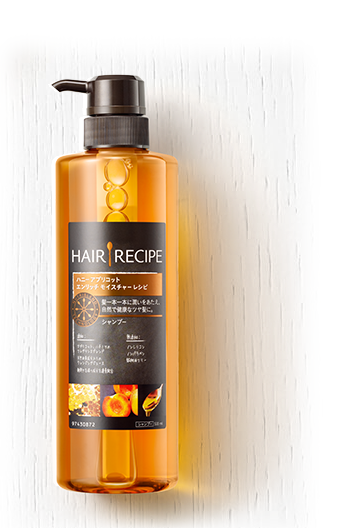
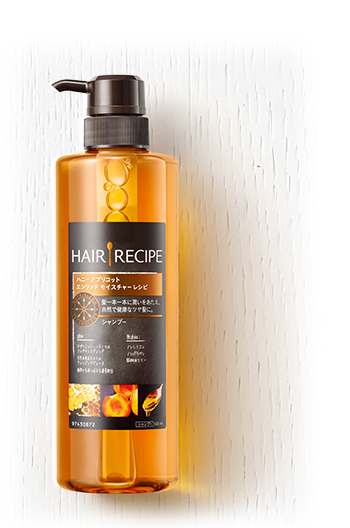
bug fix - adjusted image spacing - image shadow

diff --git a/hairrecipe/hairrecipe/Content/pc-css/faq.css b/hairrecipe/hairrecipe/Content/pc-css/faq.css
@@ -71,7 +71,7 @@ h2.page-title {
 
 
 .faq-main {
-  background-color: #fff;
+  background-color: transparent;
   color: #87847d;
   margin-top: -1px;
   padding-left: 0;
@@ -110,6 +110,9 @@ h2.page-title {
     font-size:1em;
 }
 
+.faq-main .qsec {
+    background-color: #fff;
+}
 
 
 
@@ -149,7 +152,7 @@ h2.page-title {
 }
 
 .bg {
-    background: url(../images/sp/faq/bg2.jpg) right 20px center repeat;
+    /*background: url(../images/sp/faq/bg2.jpg) right 20px center repeat;*/
 }
 
 .wall-hp {

diff --git a/hairrecipe/hairrecipe/Content/pc-css/result.css b/hairrecipe/hairrecipe/Content/pc-css/result.css
@@ -88,7 +88,7 @@
 .item .item-image img {
   height: auto;
   margin-left: 22px;
-  margin-top: -6px;
+  margin-top: -48px;
   width: auto;
 }
 
@@ -102,8 +102,9 @@
 
 .item .item-detail h3 {
   font-size: 0.6em;
-  line-height: 2.5em;
   letter-spacing: 0.6em;
+  line-height: 2.5em;
+  margin-top: 0px;
 }
 
 .item .item-detail p {
